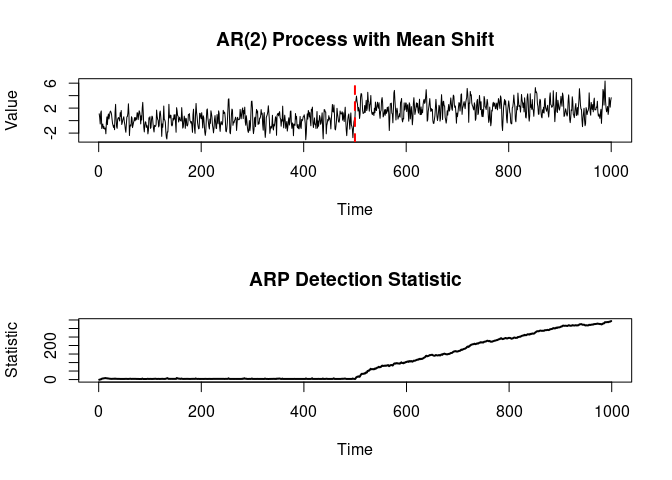
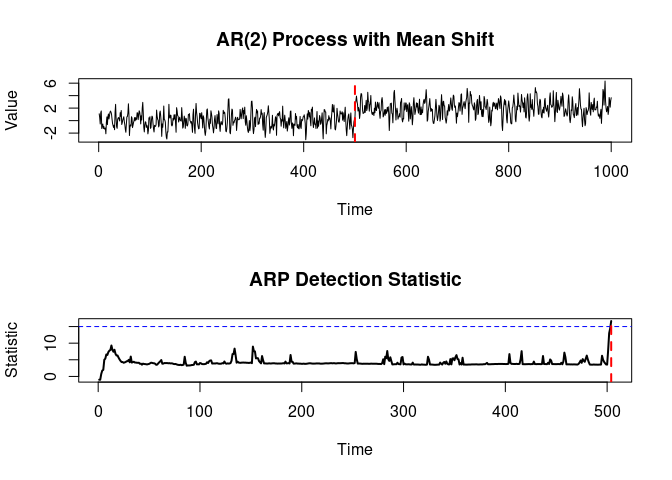
added treshold parameter in arp

diff --git a/focus/README.md b/focus/README.md
@@ -449,7 +449,7 @@ system.time(
 ```
 
        user  system elapsed 
-      8.135   0.103   8.240 
+      8.554   0.108   8.663 
 
 ``` r
 # Low-dimensional projection approximation
@@ -592,7 +592,7 @@ system.time({
 ```
 
        user  system elapsed 
-      0.003   0.000   0.003 
+      0.003   0.000   0.002 
 
 ``` r
 plot(res_bern$stat, main = "Bernoulli (univariate): change in success probability")
@@ -670,7 +670,7 @@ system.time({
 ```
 
        user  system elapsed 
-      0.003   0.000   0.002 
+      0.003   0.000   0.003 
 
 ``` r
 plot(res_gamma$stat, main = "Gamma: change in scale (shape = 2)")
@@ -883,7 +883,7 @@ rho_est <- ar_model$ar  # Estimated AR coefficients
 # Run offline ARP detection
 res <- focus_offline(
   Y = Y,
-  threshold = Inf,
+  threshold = 15,
   type = "arp",
   rho = rho_est
 )
@@ -897,27 +897,27 @@ abline(v = n_pre, col = "red", lty = 2, lwd = 2)  # True changepoint
 plot(res$stat[, 1], type = "l", main = "ARP Detection Statistic",
      xlab = "Time", ylab = "Statistic", lwd = 2)
 abline(h = res$threshold, col = "blue", lty = 2)
+if (!is.null(res$detection_time)) {
+  abline(v = res$detection_time, col = "red", lty = 2, lwd = 2)
+}
 ```
 
 ![](generate_README_files/figure-commonmark/unnamed-chunk-17-1.png)
 
 ``` r
-if (!is.null(res$detection_time)) {
-  abline(v = res$detection_time, col = "red", lty = 2, lwd = 2)
-}
 par(mfrow = c(1, 1))
 
 # Show detection results
 cat("Detection time:", res$detection_time, "\n")
 ```
 
-    Detection time: 
+    Detection time: 504 
 
 ``` r
 cat("Estimated changepoint:", res$detected_changepoint, "\n")
 ```
 
-    Estimated changepoint: 
+    Estimated changepoint: 500 
 
 ``` r
 cat("True changepoint:", n_pre, "\n")
@@ -974,7 +974,7 @@ print(time_offline)
 ```
 
        user  system elapsed 
-      0.151   0.003   0.149 
+      0.159   0.021   0.155 
 
 ``` r
 # Benchmark online mode
@@ -998,7 +998,7 @@ print(time_online)
 ```
 
        user  system elapsed 
-      0.338   0.000   0.338 
+      0.337   0.000   0.338 
 
 ``` r
 # Verify both produce identical results
@@ -1014,7 +1014,7 @@ speedup <- time_online["elapsed"] / time_offline["elapsed"]
 cat("Offline mode is", round(speedup, 1), "x faster\n")
 ```
 
-    Offline mode is 2.3 x faster
+    Offline mode is 2.2 x faster
 
 ## C++ Integration
 
